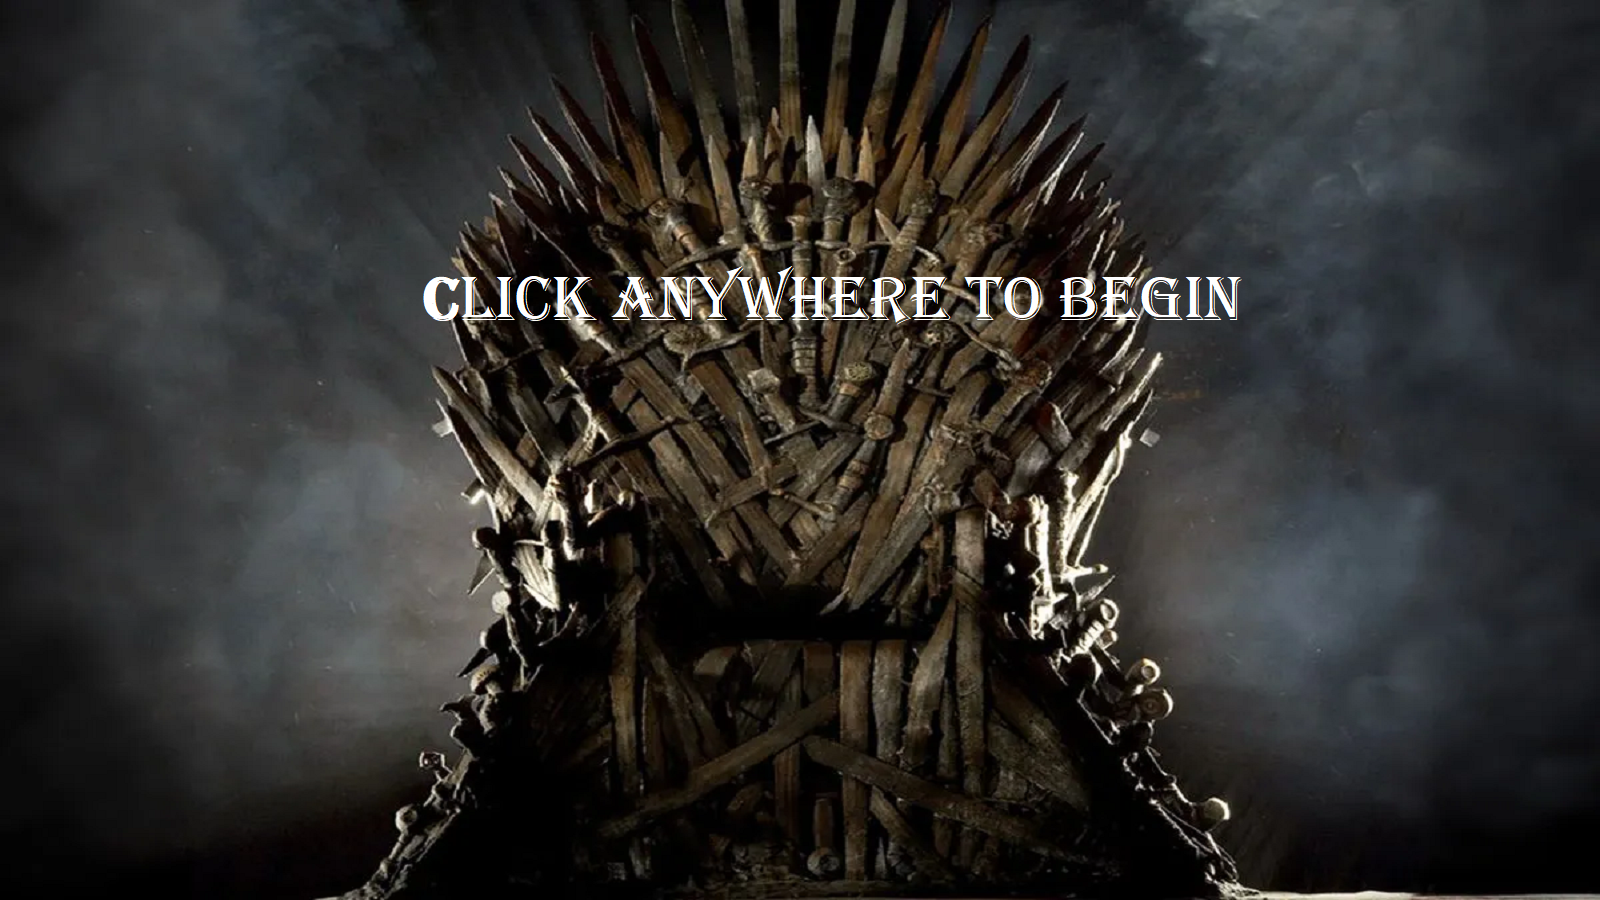
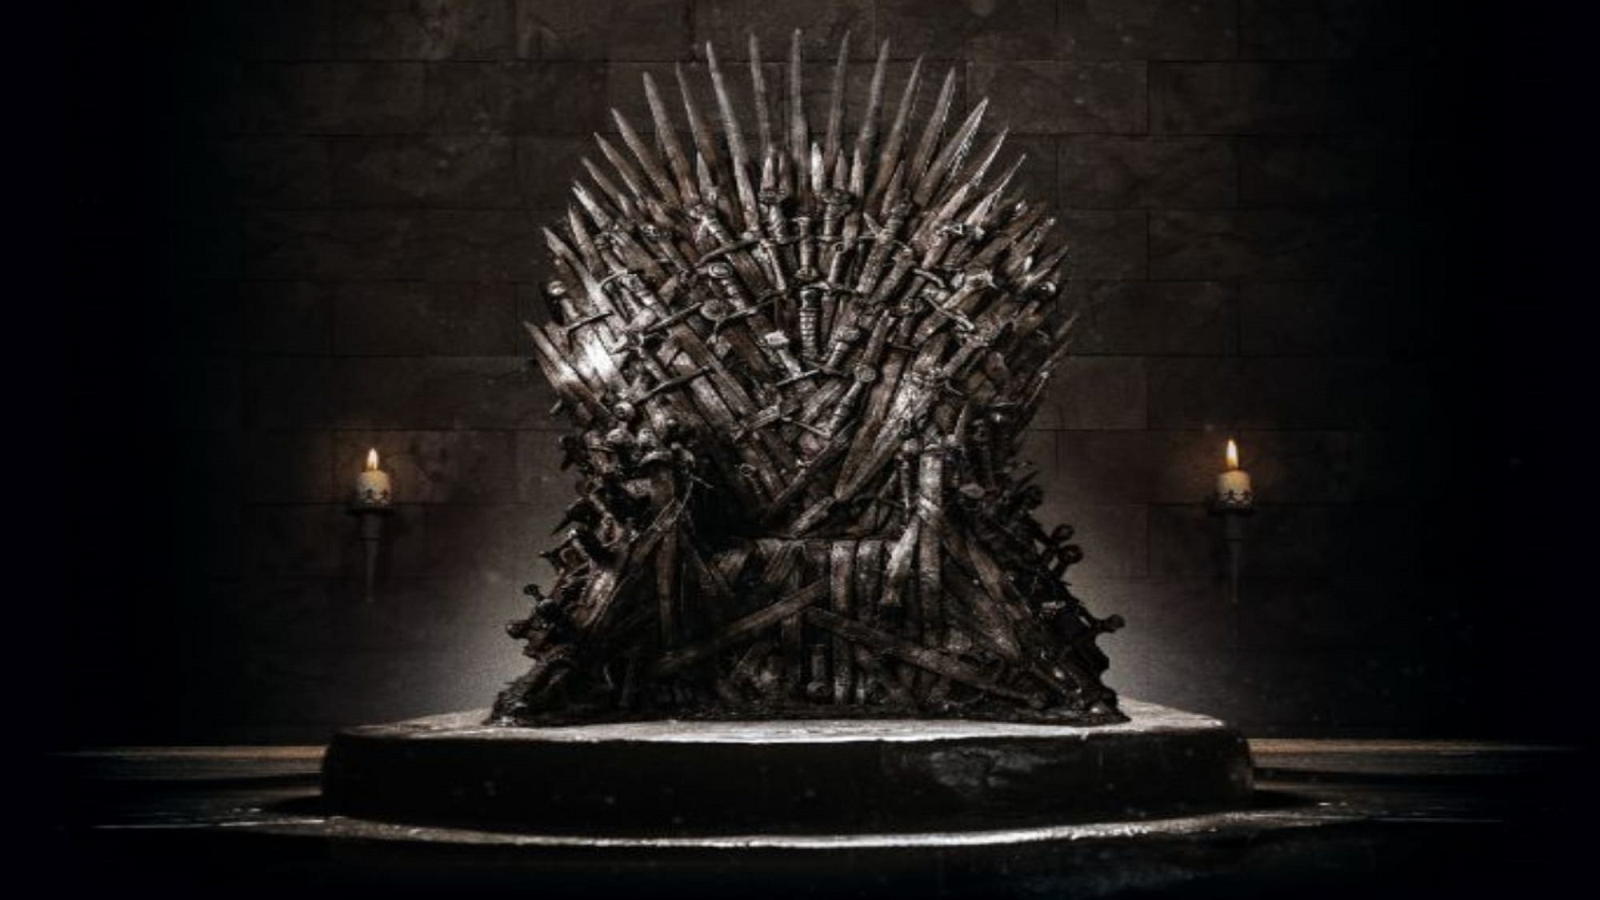
minor changes

diff --git a/index.css b/index.css
@@ -11,7 +11,7 @@
 }
 
 .front-page{
-    background-image: url('./assets/images/ironthrone.png');
+    background-image: url('./assets/images/throne.png');
     background-repeat: no-repeat;
     background-position: 50% 50%;
     background-size: 100vw 100vh;
